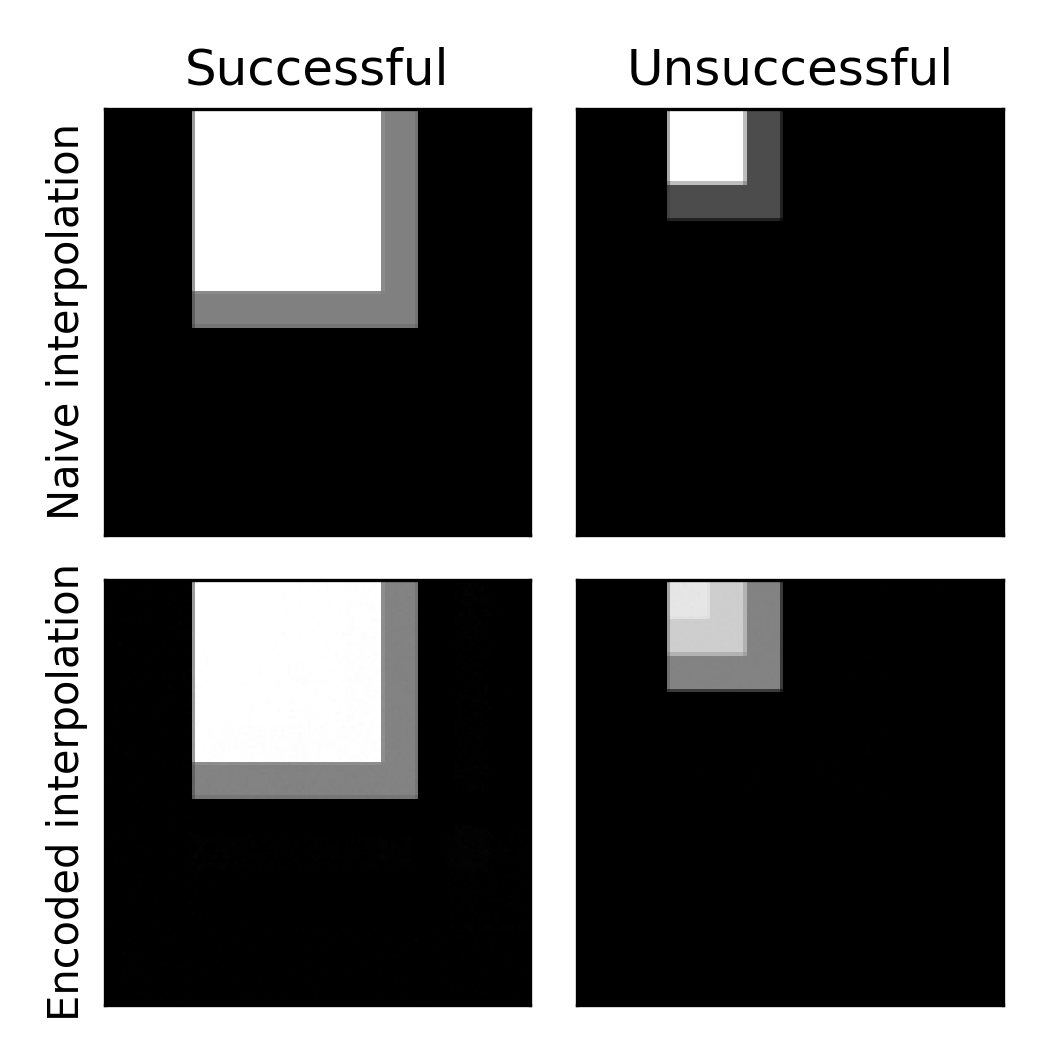
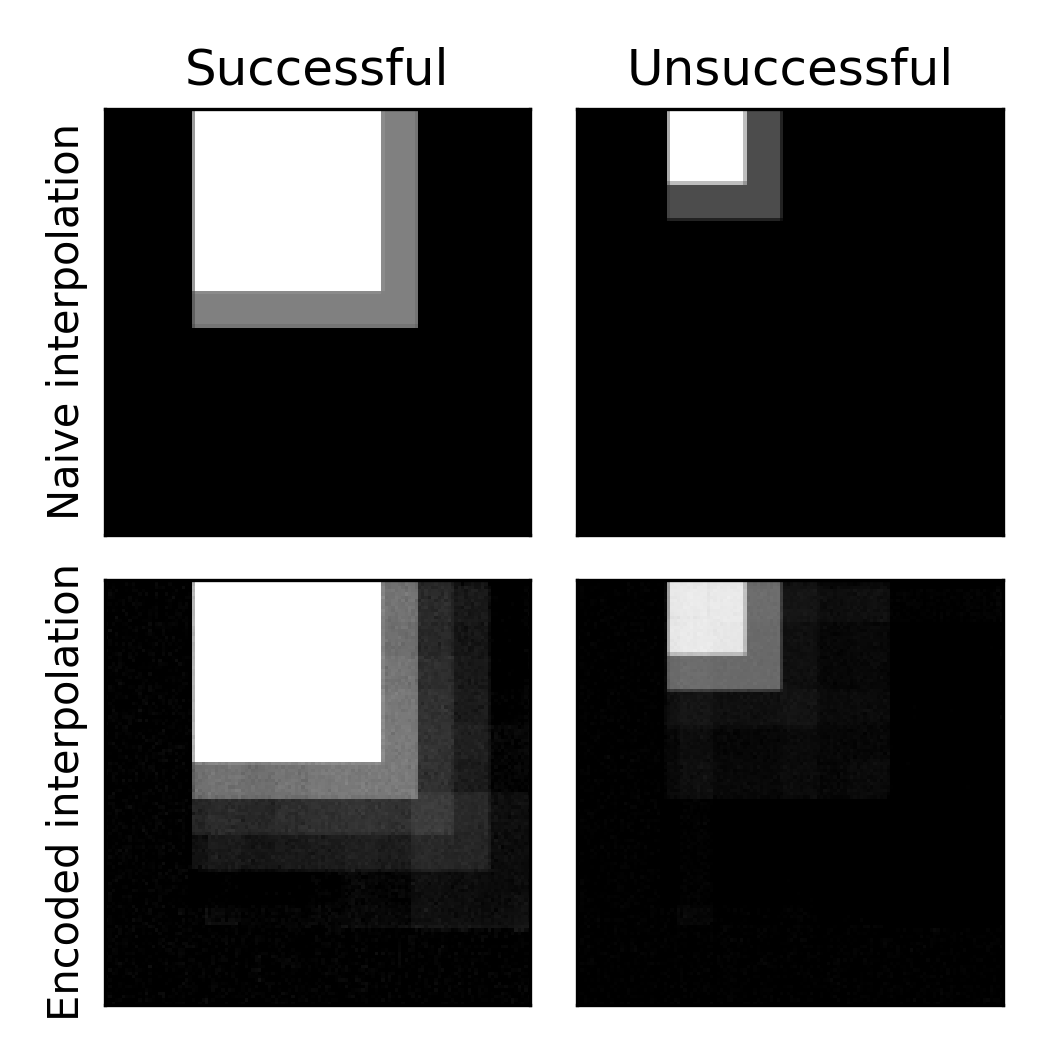
Updated interp loss

Changed region(s): [[0.1829, 0.5486, 0.4876, 0.8533], [0.64, 0.5486, 0.7619, 0.6705]]

diff --git a/src/models/AE.py b/src/models/AE.py
@@ -114,7 +114,6 @@ class AE(nn.Module):
         self.decoder = decoder
 
     def forward(self, x: torch.tensor):
-        x = x
         z = self.encoder(x)
         x_recon = self.decoder(z)
         return x_recon
@@ -132,19 +131,18 @@ class AE_interp(nn.Module):
         self.decoder = decoder
 
     def forward(self, x: torch.tensor):
-        x = x
         z = self.encoder(x)
         x_recon = self.decoder(z)
         return x_recon
 
     def loss(self, x: torch.tensor):
         z = self.encoder(x)
-        #z_interp = (z[0:-2:1]+z[2::1])/2
+        z_interp = (z[:-2]+z[2:])/2
         #z_interp = torch.cat((z[0:1], z_interp, z[-2:-1]))
 
         x_recon = self.decoder(z)
-        #x_recon_interp = self.decoder(z_interp)
-        #return nn.functional.mse_loss(x_recon, x) #+ nn.functional.mse_loss(x_recon_interp,x[1:-1])
+        x_recon_interp = self.decoder(z_interp)
+        return nn.functional.mse_loss(x_recon, x) + nn.functional.mse_loss(x_recon_interp,x[1:-1])
 
-        x_recon = self.forward(x)
-        return nn.functional.mse_loss(x_recon, x)
+        #x_recon = self.forward(x)
+        #return nn.functional.mse_loss(x_recon, x)

diff --git a/main.py b/main.py
@@ -39,7 +39,7 @@ for video, video_name in zip([size_video, moving_video], ['Regular', 'Moving']):
 
 
     for model, model_name in zip(models, model_names):
-        trainer = Trainer(model, train_loader, config_path = f'configs/config_{model_name}.yaml', device = device)
+        trainer = Trainer(model, train_loader, config_path = f'configs/config_{video_name}.yaml', device = device)
         losses = trainer.train()
 
         #save model
